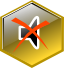
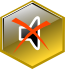
Добавлен background, кнопки ALyxButton генерят сигналы.

diff --git a/mainwindow.cpp b/mainwindow.cpp
@@ -33,6 +33,15 @@ AMainWindow::AMainWindow(QWidget *parent) {
 	mainArea = new QWidget();
 	mainArea->setLayout(new QVBoxLayout());
 
+	QPalette pal = palette();
+	QPixmap bgImg("../skins/default/background.png");
+	QBrush brush = QBrush();
+	brush.setTexture(bgImg);
+	pal.setBrush(QPalette::Window, brush);
+	mainArea->setPalette(pal);
+	mainArea->setAutoFillBackground(true);
+
+
 	((QBoxLayout *)mainWidget->layout())->insertWidget(0, panel);
 	((QBoxLayout *)mainWidget->layout())->insertWidget(0, mainArea, 1);
 
